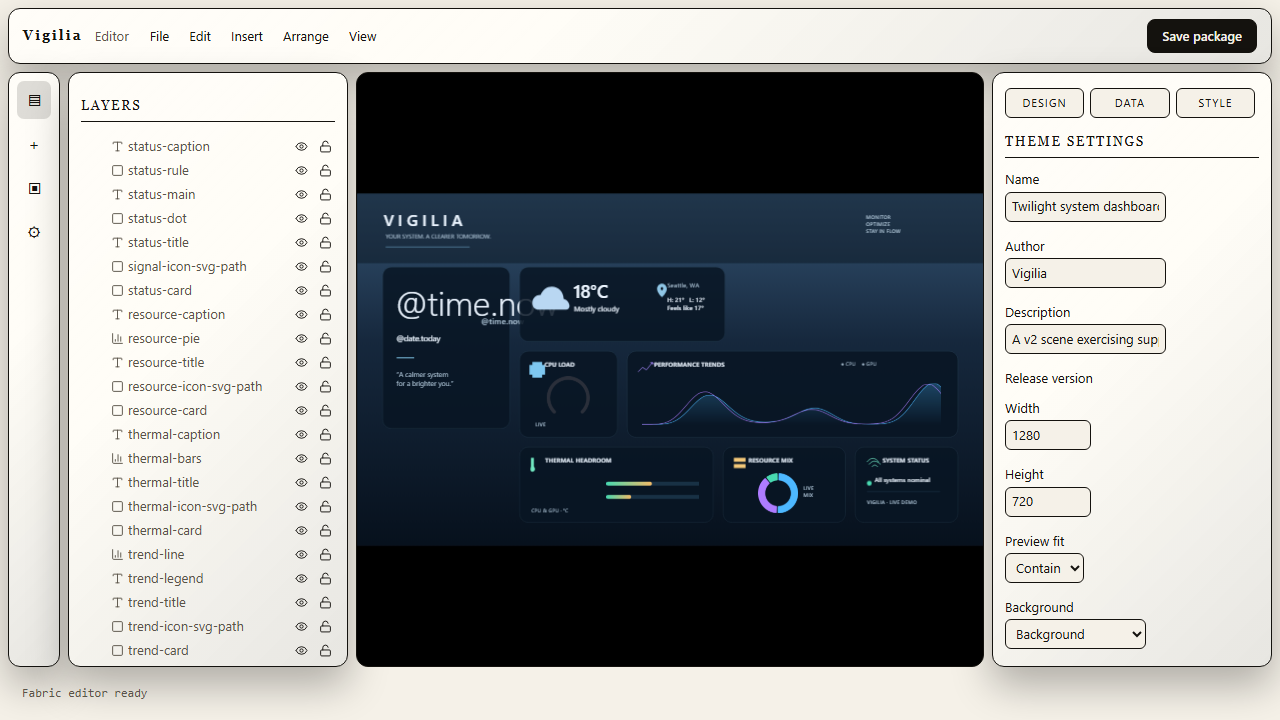
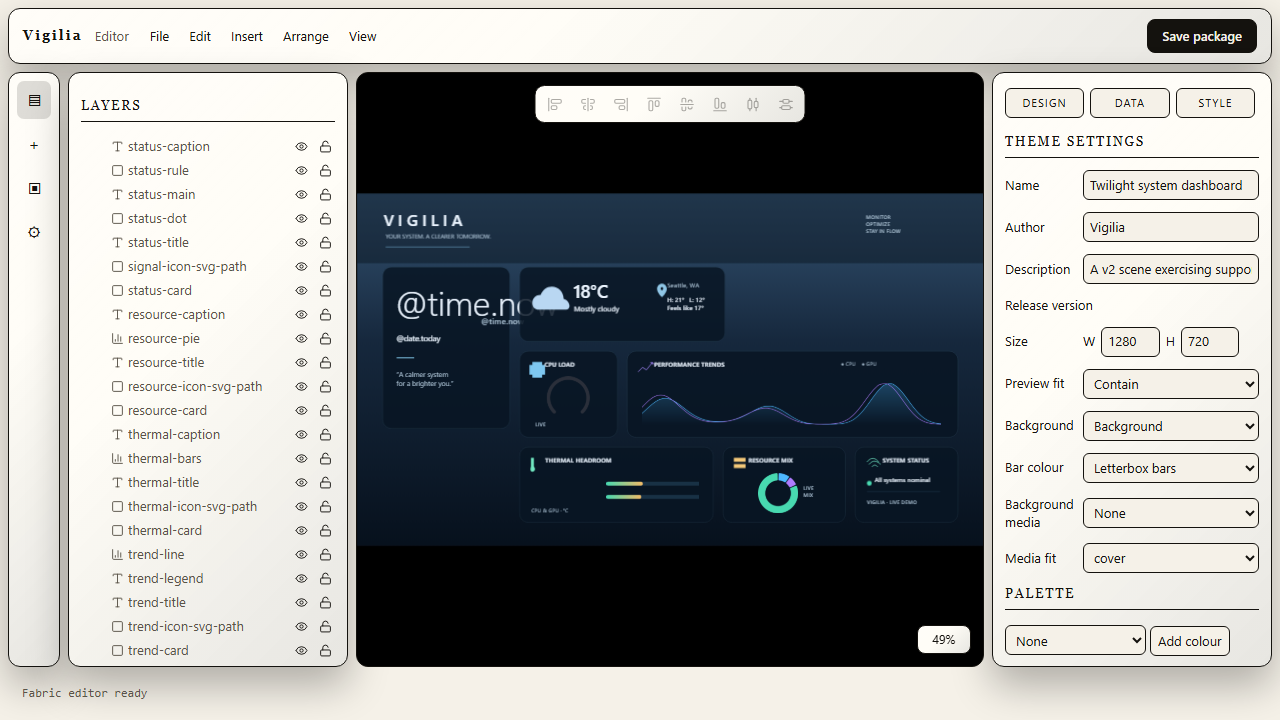
docs(status): record the editor UI polish
Lands Spec B's plan gate plus the two held test-only fixes.

Task 7's double cast in `shell-layout.dom.test.tsx` keeps its `as unknown as`
hop — the stub supplies one of `EditorInteraction`'s thirteen members, so the
hop is the honest shape — and gains a checked `satisfies Pick<ViewportManager,
"zoom" | "onChange">` inside it. Teeth: mistyping `zoom` now fails TS2322.

Task 8's layer panel row wire is pinned by a new case asserting that clicking
an indented child calls `selectLayer` with the child's own id, not its parent's.
Teeth: passing `row.parentId ?? row.id` fails exactly that case. Both were held
minors; the batch rule puts them in one dispatch and this gate covers both.

The plan's Task 10 Files list and `git add` named only the first test file while
the ruling folding the second into Step 0 lived only in the ledger — the trap
this plan already recorded once. Both files, the wire-case paragraph and the
re-captured screenshot are now in the plan. The PNG is staged because Step 3
re-captures it; a test committed without the evidence it produced is the same
failure in the other direction.

Gate: format, lint, typecheck clean; 1443 unit tests pass (A10 recorded 1442, so
the added case is collected rather than skipped); build clean; player size PASS
283.9 KB gzip of 400 KB. Browser suite: 105 passed, 60 skipped, 5 failed — all
five `display-fabric.spec.ts` and all five machine-speed timeouts at the 30s
[…]

diff --git a/src/web/packages/editor/src/editor-shell/shell-layout.dom.test.tsx b/src/web/packages/editor/src/editor-shell/shell-layout.dom.test.tsx
@@ -1,6 +1,7 @@
 // @vitest-environment jsdom
 import { expect, it, vi } from "vitest";
 import { arrangeActions } from "../object-actions.js";
+import type { ViewportManager } from "../viewport-manager/index.js";
 import type { EditorShellBridge } from "./bridge.js";
 import { createShellLayout } from "./shell-layout.js";
 import type { EditorActionFacade } from "./session-facade.js";
@@ -57,12 +58,14 @@ function bridgeStub(
     session: facade(),
     // Only the camera is stubbed: the readout subscribes to it, so an empty
     // object here would throw rather than exercise the shell. The shell only
-    // reaches `viewport`, so the double cast is the partial stub's whole point.
+    // reaches `viewport`, so the double cast is the partial stub's whole point;
+    // the `satisfies` is what checks the two members inside it, which the cast
+    // alone would erase.
     editor: {
       viewport: {
         zoom: () => 1,
         onChange: () => () => undefined,
-      },
+      } satisfies Pick<ViewportManager, "zoom" | "onChange">,
     } as unknown as EditorShellBridge["editor"],
     destroy: vi.fn(),
     ...overrides,

diff --git a/src/web/packages/editor/src/editor-shell/layer-panel.dom.test.tsx b/src/web/packages/editor/src/editor-shell/layer-panel.dom.test.tsx
@@ -223,6 +223,18 @@ it("dims nothing when no group is entered", async () => {
     expect(row.getAttribute("data-context")).toBeNull();
 });
 
+it("selects the row that was clicked, not the group it sits under", async () => {
+  const selectLayer = vi.fn();
+  const host = await renderPanel(contextRows, { selectLayer });
+  // An indented child is the plausible mistake: the row carries its group in
+  // `parentId`, and group-context work makes wiring that id to `selectLayer`
+  // look reasonable. The wire must carry the clicked row's own id.
+  await act(async () =>
+    host.querySelector<HTMLElement>('[data-vigilia-layer="child"]')?.click(),
+  );
+  expect(selectLayer.mock.calls).toEqual([["child"]]);
+});
+
 it("renders object actions in a bottom row, not on the selected row", async () => {
   const host = document.createElement("div");
   const root = createRoot(host);

diff --git a/STATUS.md b/STATUS.md
@@ -14,9 +14,11 @@ unpolished, and the canvas has no camera.
 - Three plans, all under subagent-driven execution:
   - `docs/superpowers/plans/2026-09-25-editor-ui-polish.md` (Spec B) — Figma-baseline
     layer tree, action registry behind dock and layer-panel row, dense inspector,
-    Lucide icons, restrained reduced-motion-guarded transitions.
+    Lucide icons, restrained reduced-motion-guarded transitions. **Tasks 1–10 done.**
   - `docs/superpowers/plans/2026-09-25-editor-viewport-and-mechanics.md` (Spec A)
     — zoom/pan camera, group entry, reachable marquee, keyboard, context menu.
+    **Tasks 1–8 and 10 done**; Task 9 (context menu, a 7-file feature) and Task 11
+    (full gate) remain.
   - `docs/superpowers/plans/2026-09-25-snapping-fidelity.md` — port the fork's
     scale/resize snapping, relax the candidate filter, then replace the
     byte-length screenshot check with a move-and-resize behaviour matrix.
@@ -25,31 +27,35 @@ unpolished, and the canvas has no camera.
 
 ## Last completed change
 
-- The muted layer style moved into `editor-shell.css` next to `.vigilia-layer-row`,
-  and `layer-panel.tsx` no longer carries an inline `opacity` declaration.
-- The empty-context guard now gates the `data-context` attribute itself, so a bare
-  `[data-context="false"]` rule cannot dim the whole tree on open.
-- The muted half has teeth on both legs: a jsdom case for the empty context, and
-  the committed `enters a group` e2e case asserting computed opacity `0.45` outside
-  the context and `1` inside it.
+- Spec B Task 10 (full gate) landed: Task 7's held cast fix became a checked
+  `satisfies Pick<ViewportManager, "zoom" | "onChange">` inside the unchanged
+  double cast, and the layer panel's row `onClick` → `selectLayer` wire is pinned
+  with the clicked row's own id rather than its parent's.
+- Both fixes have verified teeth: the `satisfies` fails `TS2322` when `zoom` is
+  mistyped, and the wire test fails when the wire passes `parentId`.
+- Broad gate green at this commit: format, lint, typecheck clean; 1443 unit tests
+  pass; build clean; player size PASS (283.9 KB gzip, budget 400 KB).
+- Rendered inspection of the re-captured screenshot confirms the layer tree,
+  indentation, two state icons per row, toolbar arrange icons, dense paired
+  geometry fields and the two tooltip/positioner reduced-motion guards.
 
 ## Next
 
-1. Continue Spec B with Task 7 (arrange moves to the canvas toolbar).
-2. Continue Spec A from Task 7, then 8, 9.
+1. Spec A Task 9 — the canvas context menu, then Task 11's full gate.
+2. Spec B is complete; Spec A's remaining tasks close the camera work.
 3. Close author-journey Task 6 once the e2e evidence lands.
 
 ## Blockers / unverified
 
-- No verified full `npm run test:e2e` count yet: the earlier run never produced
-  `test-results/summary.json`. Three spec acceptance items stay unverified —
-  browser round-trip of text align/wrap/overflow, in-place edit + undo, and run
-  preset/override persistence.
-- The two `display-fabric.spec.ts` phone-chromium tests previously recorded here
-  as pre-existing failures were re-measured and **both pass** on this branch
-  (1 passed, 32.4s and 32.9s, `--workers=1`). They are not known failures; a red
-  suite at the gate is a failure to investigate, not to absorb.
-- The layer panel's row key changed to `id#index` and rows became `draggable`
-  (Spec B Task 6); only `--grep "reorders a layer"` was run in a browser, so
-  other `editor.spec.ts` cases are unverified against that change until the
-  Spec B gate runs the full suite.
+- **The layer panel's bottom action row is unverified by eye.** The capture frame
+  shows no selection, and those actions render only for one. Open the host and
+  select an object to check it.
+- **Two player tests are slow, not broken.** `display-fabric.spec.ts:322` and
+  `:359` exceed Playwright's 30s default (30216ms/30220ms, both projects) and
+  **pass at `--timeout=120000`** (44738ms/34968ms). The per-project
+  `timeout: 60_000` in `playwright.config.ts` is apparently not taking effect;
+  that mechanism is unconfirmed, so no timeout was changed. A default-timeout run
+  reads these two as red — that is machine speed, not a regression.
+- The three spec acceptance items from the earlier note — browser round-trip of
+  text align/wrap/overflow, in-place edit + undo, and run preset/override
+  persistence — remain unverified.

diff --git a/docs/superpowers/plans/2026-09-25-editor-ui-polish.md b/docs/superpowers/plans/2026-09-25-editor-ui-polish.md
@@ -1844,10 +1844,16 @@ git commit -m "feat(editor): restrained motion and visible focus rings"
 
 **Files:**
 - Modify: `src/web/packages/editor/src/editor-shell/shell-layout.dom.test.tsx` (Step 0 — the held fix from Task 7)
+- Modify: `src/web/packages/editor/src/editor-shell/layer-panel.dom.test.tsx` (Step 0 — A8's held Minor 1)
+- Modify: `STATUS.md` (Step 4)
 
-- [ ] **Step 0: Land Task 7's held cast fix**
+- [ ] **Step 0: Land the two held fixes**
+
+**Step 0 carries two test-only fixes, batched into one dispatch because they are the same shape and both were held by an earlier review.** The process's batch rule is what puts them together: one dispatch, one review, and this gate covers both.
 
 Task 7's review left one Minor open and held it: a **double cast** in `shell-layout.dom.test.tsx` that bypasses structural checking. It was held rather than run because no task between there and here touches that file — this step is its owner, and it must not outlive the plan silently.
+
+Task 8's review left a second Minor open, the same way: the layer panel's row `onClick` → `selectLayer` wire is unpinned. `layer-panel.dom.test.tsx` renders rows and asserts their attributes and grouping behaviour, and the bridge's branch is already pinned elsewhere (`selectLayer("child")` → `setActiveObject(child)`), but nothing asserts that clicking a row calls `selectLayer` with **that row's own id**. It matters here because this codebase is actively adding group-context work, where passing a parent id instead of the child's is a plausible refactor — so the case to add clicks an **indented child** (one carrying a `parentId`) and expects `selectLayer.mock.calls` to equal `[["child"]]`. Use the file's existing `renderPanel` / `bridge(rows, overrides)` conventions and add no new file.
 
 The cast is at `shell-layout.dom.test.tsx:60-65`: a stub supplying only `viewport: { zoom, onChange }`, closed with `} as unknown as EditorShellBridge["editor"]`, under a comment at `:57-59` claiming "the shell only reaches `viewport`".
 
@@ -1941,11 +1947,14 @@ Replace the "Last completed change" section with a 1–5 bullet summary of this 
 - [ ] **Step 5: Commit**
 
 ```bash
-git add STATUS.md src/web/packages/editor/src/editor-shell/shell-layout.dom.test.tsx
+git add STATUS.md \
+  src/web/packages/editor/src/editor-shell/shell-layout.dom.test.tsx \
+  src/web/packages/editor/src/editor-shell/layer-panel.dom.test.tsx \
+  docs/evidence/screenshots/editor-desktop-chromium.png
 git commit -m "docs(status): record the editor UI polish"
 ```
 
-Step 0's test file is in the `git add` deliberately: a code change that cannot be committed alongside the commit that records it is the failure this step would otherwise have shipped.
+Both Step 0 test files are in the `git add` deliberately, and so is the capture PNG: a code change that cannot be committed alongside the commit that records it is the failure this step would otherwise have shipped. The `layer-panel.dom.test.tsx` entry was added when A8's held Minor was folded into this step — a ruling recorded only in the ledger describes a plan edit that was never made, which is the trap already found once on this plan.
 
 ---
 
